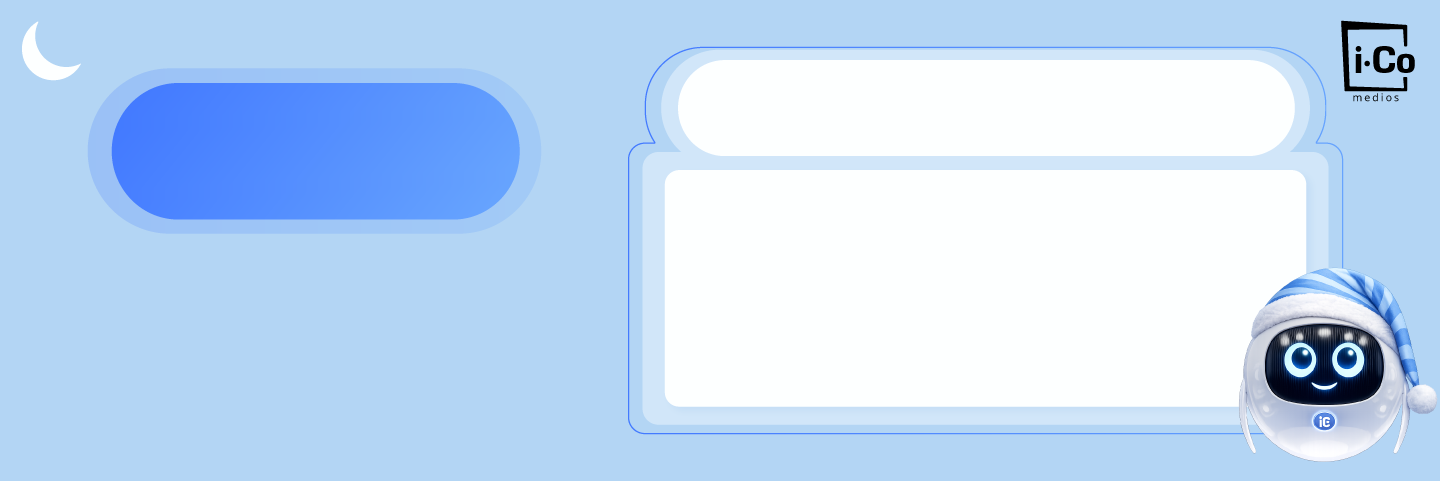
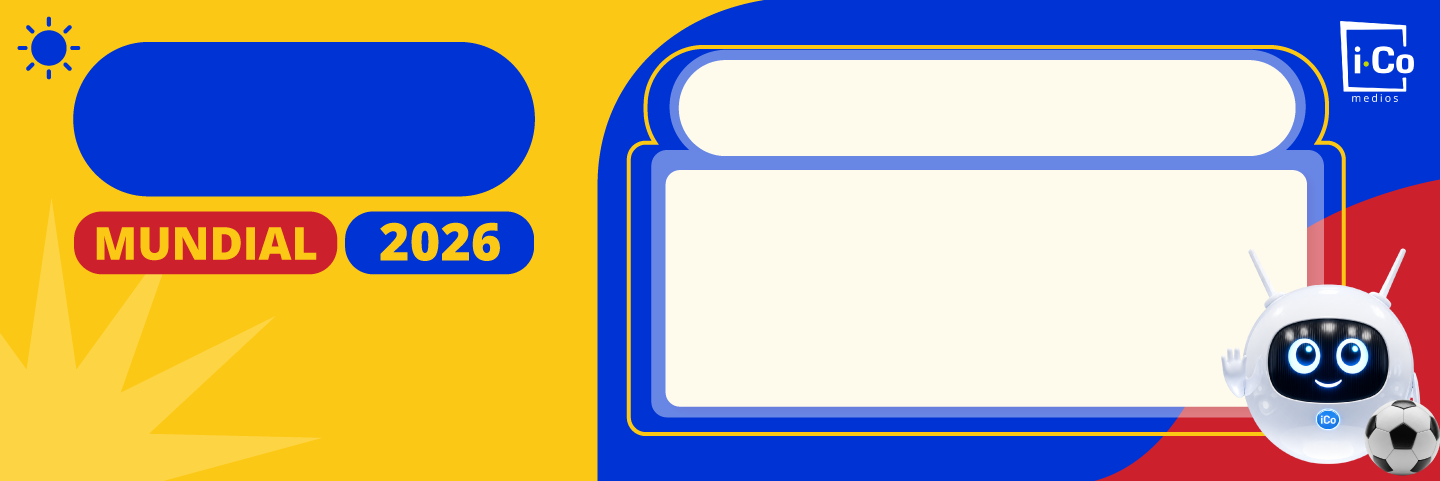
Add files via upload

diff --git a/index.html b/index.html
@@ -36,10 +36,10 @@
       /* HORA */
       .time {
         position: absolute;
-        top: 33%;
-        left: 22%;
+        top: 26%;
+        left: 17%;
         transform: translate(-50%, -50%);
-        font-size: 94px;
+        font-size: 118px;
         font-weight: bold;
         color: #ffffff;
       }
@@ -48,11 +48,11 @@
       .date {
         position: absolute;
         top: 68%;
-        left: 22%;
+        left: 18%;
         transform: translate(-50%, -50%);
-        font-size: 58px;
+        font-size: 48px;
         font-weight: bold;
-        color: #4a90e2;
+        color: #0033d3;
         text-align: center;
         line-height: 1.1;
       }
@@ -70,12 +70,12 @@
       /* TEMPERATURA */
       .weather {
         position: absolute;
-        top: 48%;
+        top: 52%;
         left: 74%;
         transform: translate(-50%, -50%);
-        font-size: 90px;
+        font-size: 107px;
         font-weight: bold;
-        color: #000000;
+        color: #0033d3;
       }
 
       /* DESCRIPCIÓN */
@@ -84,8 +84,8 @@
         top: 72%;
         left: 74%;
         transform: translate(-50%, -50%);
-        font-size: 62px;
-        color: #4a90e2;
+        font-size: 44px;
+        color: #0033d3;
       }
 
       /* CIUDAD */
@@ -145,7 +145,7 @@
         const day = now.getDate();
         const month = months[now.getMonth()];
 
-        document.getElementById("date").innerHTML = `${dayName}<br>${day} de ${month}`;
+        document.getElementById("date").innerHTML = `${dayName} ${day} de ${month}`;
       }
 
       /* ========================